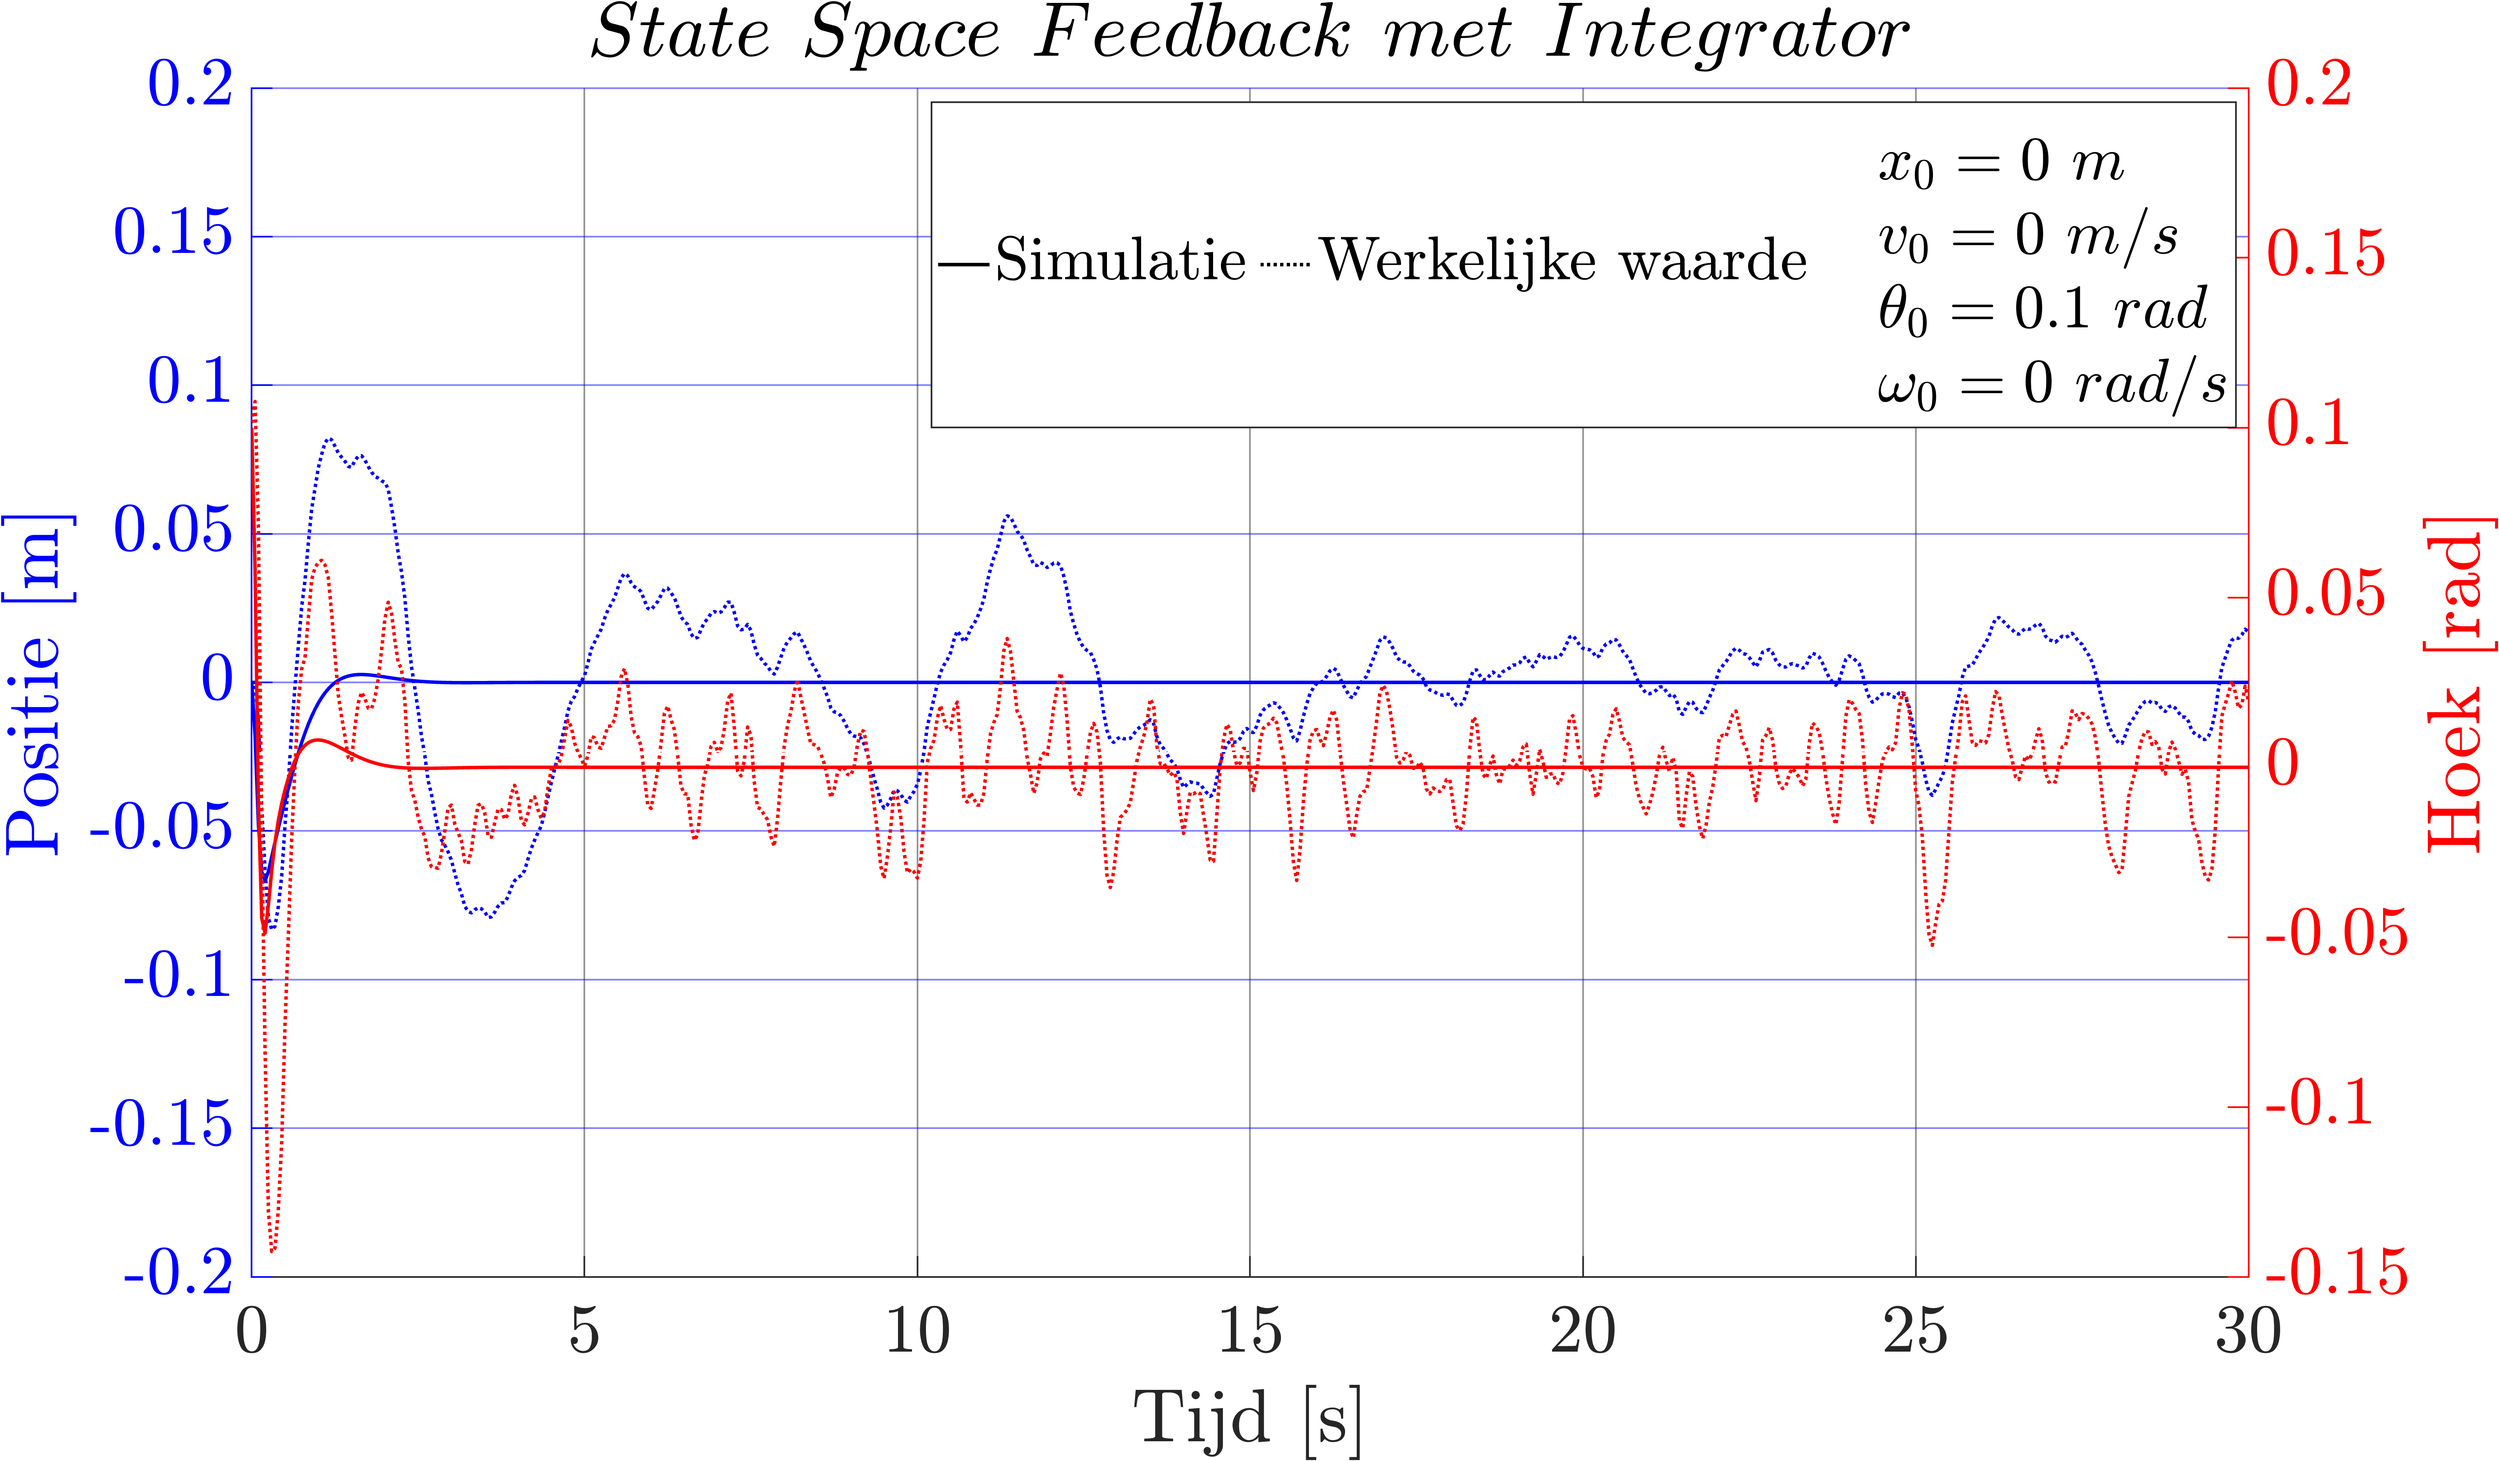
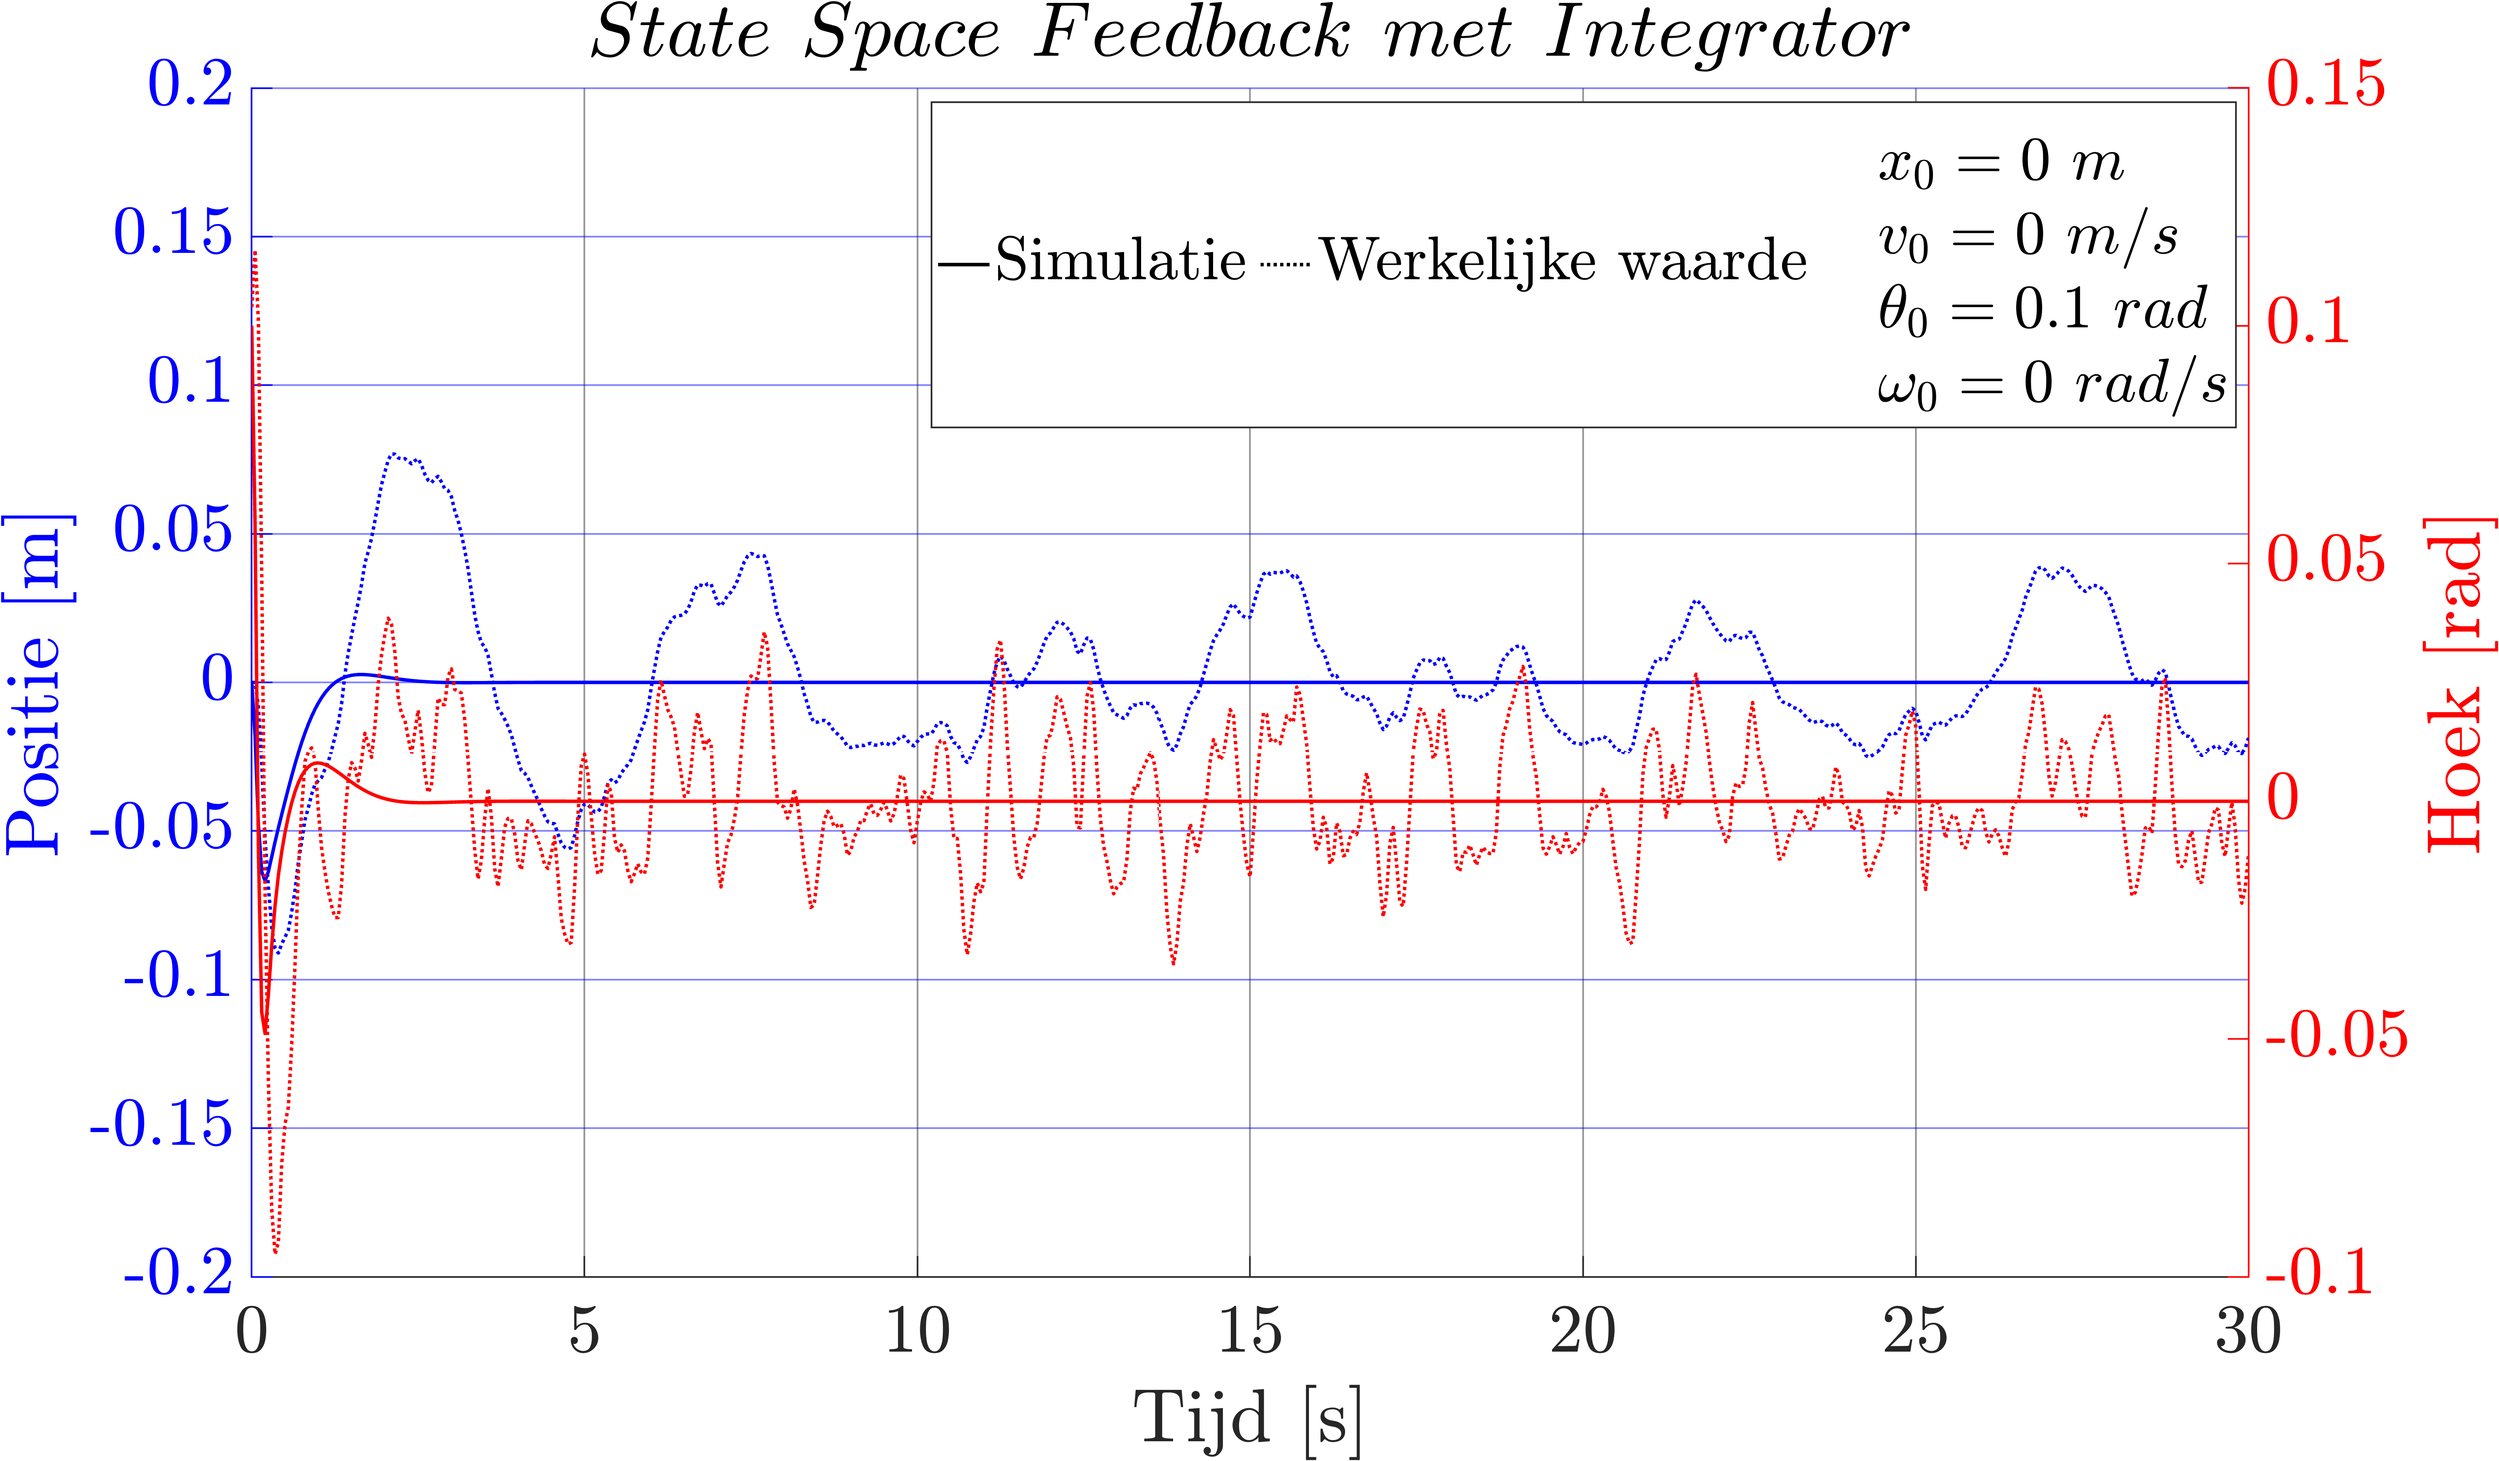
Plot Fix Observer Pos

diff --git a/src/pendulum.py b/src/pendulum.py
@@ -26,7 +26,7 @@ class Pendulum(System):
         self.add_noise = add_noise
     
     def init_state(self):
-        return np.array([0.0, 0.0, np.pi, 0.0]) # x0, v0, phi0, omega0
+        return np.array([0.0, 0.0, 0.1, 0.0]) # x0, v0, phi0, omega0
     
     def get_measurement(self):
         measurement = [self.state[0], self.state[2]]

diff --git a/controller.py b/controller.py
@@ -35,7 +35,7 @@ class Controller:
         self.p22    = 0.0
 
         self.x_hat = np.zeros((4, 1))
-        self.x_hat[2] = np.pi
+        self.x_hat[2] = 0.1
         self.observer = Observer()
 
         self.angle_factor = 11 / 10
